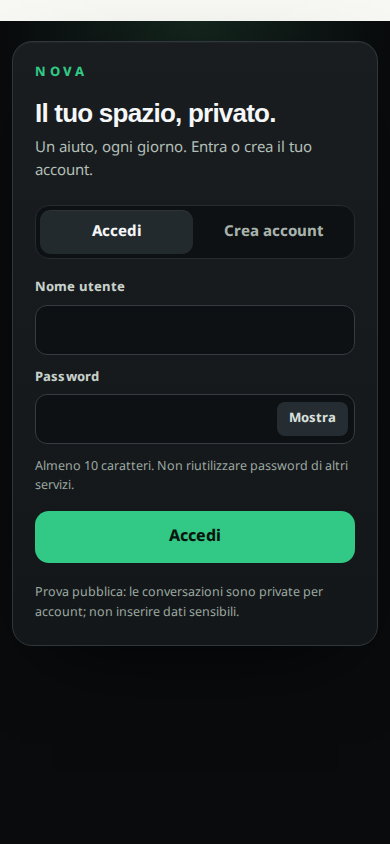
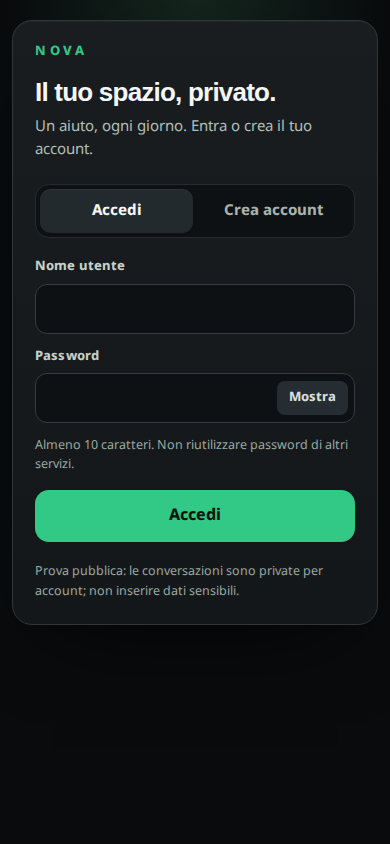
APK download route (data-dir releases), DEPLOYMENT: licenzpol.it/nova section, Android build/runbook

diff --git a/src/web.ts b/src/web.ts
@@ -30,7 +30,7 @@ export function webDataRoutes(app:FastifyInstance,pool:Pool){
   return {conversations,artifacts,runs,limit:100};
  }));
 }
-export interface WebOptions{nativeVoice?:boolean;/** Self-service registration; default open. Env NOVA_PUBLIC_REGISTRATION=off closes it. */registration?:boolean;/** Mount everything under a URL prefix (e.g. '/nova' for licenzpol.it/nova). Default '' = root. Static files are rewritten at serve time so the browser only ever sees prefixed URLs. */basePath?:string;/** Digital Asset Links statement file (JSON) served at /.well-known/assetlinks.json for the Android TWA. Absent/unreadable → 404. */assetLinksFile?:string}
+export interface WebOptions{nativeVoice?:boolean;/** Self-service registration; default open. Env NOVA_PUBLIC_REGISTRATION=off closes it. */registration?:boolean;/** Mount everything under a URL prefix (e.g. '/nova' for licenzpol.it/nova). Default '' = root. Static files are rewritten at serve time so the browser only ever sees prefixed URLs. */basePath?:string;/** Digital Asset Links statement file (JSON) served at /.well-known/assetlinks.json for the Android TWA. Absent/unreadable → 404. */assetLinksFile?:string;/** Directory with release APKs (nova-latest.apk + .sha256). Served at <bp>/download/nova.apk. Absent → 404. */releasesDir?:string}
 export const registrationOpenFromEnv=(env:Record<string,string|undefined>=process.env)=>env.NOVA_PUBLIC_REGISTRATION?.trim().toLowerCase()!=='off';
 export async function buildWeb(core:FastifyInstance,pool:Pool,options:WebOptions={}){
  const web=Fastify({logger:false,bodyLimit:5700000,trustProxy:false});
@@ -63,6 +63,9 @@ export async function buildWeb(core:FastifyInstance,pool:Pool,options:WebOptions
  // Installable PWA / TWA: manifest scoped to the mount path; icons are static PNGs.
  web.get(bp+'/manifest.webmanifest',async(_r,reply)=>reply.type('application/manifest+json; charset=utf-8').send(JSON.stringify({id:bp+'/',name:'NOVA — Il tuo spazio',short_name:'Nova',description:'Assistente onesto per CV, documenti, lavoro e lingua — italiano, বাংলা, Banglish, English.',lang:'it',dir:'ltr',start_url:bp+'/',scope:bp+'/',display:'standalone',orientation:'portrait',background_color:'#121513',theme_color:'#121513',icons:[{src:bp+'/icons/icon-192.png',sizes:'192x192',type:'image/png'},{src:bp+'/icons/icon-512.png',sizes:'512x512',type:'image/png'},{src:bp+'/icons/maskable-512.png',sizes:'512x512',type:'image/png',purpose:'maskable'}]})));
  for(const icon of ['icon-192.png','icon-512.png','maskable-512.png'])web.get(bp+'/icons/'+icon,async(_r,reply)=>reply.type('image/png').header('cache-control','public, max-age=86400').send(await readFile(new URL('../public/icons/'+icon,import.meta.url))));
+ // Android app download: the signed APK lives in the data dir (never in git); served verbatim with its checksum.
+ if(options.releasesDir){web.get(bp+'/download/nova.apk',async(_r,reply)=>{try{const bytes=await readFile(options.releasesDir+'/nova-latest.apk');return reply.type('application/vnd.android.package-archive').header('content-disposition','attachment; filename="nova.apk"').header('cache-control','public, max-age=300').send(bytes)}catch{return reply.code(404).send({error:'not_found'})}});
+  web.get(bp+'/download/nova.apk.sha256',async(_r,reply)=>{try{return reply.type('text/plain').send(await readFile(options.releasesDir+'/nova-latest.apk.sha256','utf8'))}catch{return reply.code(404).send({error:'not_found'})}});}
  // Digital Asset Links live at the ORIGIN root by spec, regardless of the mount path.
  if(options.assetLinksFile)web.get('/.well-known/assetlinks.json',async(_r,reply)=>{try{const text=await readFile(options.assetLinksFile!,'utf8');JSON.parse(text);return reply.type('application/json').header('cache-control','public, max-age=3600').send(text)}catch{return reply.code(404).send({error:'not_found'})}});
  if(options.nativeVoice)web.get(bp+'/native.js',async(_r,reply)=>reply.type('text/javascript; charset=utf-8').send(prefixed('native.js',(await readFile(new URL('../staging/voice-files/public/native.js',import.meta.url))).toString())));

diff --git a/tests/pwa-manifest.test.ts b/tests/pwa-manifest.test.ts
@@ -4,7 +4,7 @@ import {buildApp,migrate} from '../src/app.ts';import {buildWeb} from '../src/we
 // (Android reads https://host/.well-known/assetlinks.json, never under /nova). Fingerprints come from a file in the data dir.
 test('manifest + icons served under basePath with correct scope/start_url; assetlinks at origin root from data-dir file; absent file → 404 (never an empty/fabricated statement)',async()=>{
  const db=await database();await migrate(db.pool);const core=buildApp(db.pool);const dir=await mkdtemp(join(tmpdir(),'nova-al-'));
- const web=await buildWeb(core,db.pool,{basePath:'/nova',assetLinksFile:join(dir,'assetlinks.json')});const base=await web.listen({port:0,host:'127.0.0.1'});
+ const web=await buildWeb(core,db.pool,{basePath:'/nova',assetLinksFile:join(dir,'assetlinks.json'),releasesDir:dir});const base=await web.listen({port:0,host:'127.0.0.1'});
  try{
   const m=await fetch(base+'/nova/manifest.webmanifest');assert.equal(m.status,200);assert.match(m.headers.get('content-type')!,/application\/manifest\+json/);const j=await m.json();
   assert.equal(j.start_url,'/nova/');assert.equal(j.scope,'/nova/');assert.equal(j.id,'/nova/');assert.equal(j.display,'standalone');assert.equal(j.lang,'it');assert.ok(j.icons.some((i:any)=>i.purpose==='maskable'));
@@ -13,6 +13,10 @@ test('manifest + icons served under basePath with correct scope/start_url; asset
   assert.equal((await fetch(base+'/.well-known/assetlinks.json')).status,404,'no fingerprint file → 404');
   await writeFile(join(dir,'assetlinks.json'),JSON.stringify([{relation:['delegate_permission/common.handle_all_urls'],target:{namespace:'android_app',package_name:'it.licenzpol.nova',sha256_cert_fingerprints:['AA:BB']}}]));
   const al=await fetch(base+'/.well-known/assetlinks.json');assert.equal(al.status,200);assert.match(al.headers.get('content-type')!,/application\/json/);assert.equal((await al.json())[0].target.package_name,'it.licenzpol.nova');
+  assert.equal((await fetch(base+'/nova/download/nova.apk')).status,404,'no release yet → 404');
+  await writeFile(join(dir,'nova-latest.apk'),Buffer.from('PK\u0003\u0004fake'));await writeFile(join(dir,'nova-latest.apk.sha256'),'abc  nova-latest.apk\n');
+  const apk=await fetch(base+'/nova/download/nova.apk');assert.equal(apk.status,200);assert.match(apk.headers.get('content-type')!,/android\.package-archive/);assert.match(apk.headers.get('content-disposition')!,/nova\.apk/);assert.equal((await apk.arrayBuffer()).byteLength,8);
+  assert.equal((await (await fetch(base+'/nova/download/nova.apk.sha256')).text()).trim(),'abc  nova-latest.apk');
   // root-mounted default keeps serving the manifest at /manifest.webmanifest with scope '/'
  }finally{await web.close();await core.close();await db.close()}
  const web2=await buildWeb(core,db.pool,{});const base2=await web2.listen({port:0,host:'127.0.0.1'});try{const j=await (await fetch(base2+'/manifest.webmanifest')).json();assert.equal(j.scope,'/');assert.equal(j.start_url,'/')}finally{await web2.close()}

diff --git a/scripts/trial.ts b/scripts/trial.ts
@@ -28,7 +28,7 @@ const registry=new ProviderRegistry(pool,providerKey);
 const accountLimits=accountLimitsFromEnv();
 const core=buildApp(pool,{fileRoot:root+'/files',agent:{endpoint:'https://sadesheikh-2809-resource.openai.azure.com/openai/v1/chat/completions',model:'gpt-5.4-mini',provider:new ManagedIdentityProvider(),voice:new AzureSpeechProvider(),registry,search:searchWeb,timeoutMs:30000,...accountLimits}});registry.routes(core);webDataRoutes(core,pool);capabilityRoutes(core,pool);await core.ready();
 const basePath=(process.env.NOVA_BASE_PATH??'').trim();const port=Number(process.env.NOVA_PORT??4187);if(!Number.isInteger(port)||port<1024||port>65535)throw Error('NOVA_PORT invalid');
-const web=await buildWeb(core,pool,{nativeVoice:true,registration:registrationOpenFromEnv(),basePath,assetLinksFile:root+'/assetlinks.json'});await web.listen({port,host:'127.0.0.1'});console.log(`NOVA trial ready on loopback:${port}${basePath}  (registration ${registrationOpenFromEnv()?'open':'closed'}, ${accountLimits.dailyRunsPerAccount} runs/day, ${accountLimits.unlimitedOwners.length} unlimited owners)`);
+const web=await buildWeb(core,pool,{nativeVoice:true,registration:registrationOpenFromEnv(),basePath,assetLinksFile:root+'/assetlinks.json',releasesDir:root+'/releases'});await web.listen({port,host:'127.0.0.1'});console.log(`NOVA trial ready on loopback:${port}${basePath}  (registration ${registrationOpenFromEnv()?'open':'closed'}, ${accountLimits.dailyRunsPerAccount} runs/day, ${accountLimits.unlimitedOwners.length} unlimited owners)`);
 // Temporary conversations expire after 24h; blobs go through file_cleanup. Sweep hourly, never crash the server on a sweep error.
 const sweeper=setInterval(()=>{sweepEphemeral(pool).then(n=>{if(n)console.log(`ephemeral sweep removed ${n}`)}).catch(e=>console.error('ephemeral sweep failed',e?.message))},3600000);
 let closing=false;async function stop(){if(closing)return;closing=true;clearInterval(sweeper);await web.close();await core.close();await pool.end();await embedded.stop()}

diff --git a/docs/DEPLOYMENT.md b/docs/DEPLOYMENT.md
@@ -73,3 +73,29 @@ Production uses a Cloudflare **quick tunnel** (no account, no domain) wrapped by
 
 ## 7. Evidence & verification culture
 Every feature slice has `evidence/<slice>/{REPORT.md,test-full.log,typecheck.log,SHA256SUMS,…}` with what the user can do now, live proofs on the public origin, and an explicit "not implemented / limits" list. Read those before changing a subsystem. Skills/workflow notes used by the maintainers' agent live outside the repo.
+
+## 8. Production on licenzpol.it/nova (since 2026-10-01)
+The LicenzPol VM (`Novapeoject`) hosts the new Nova **alongside** LicenzPol (8002) and Nexus (3960). Legacy Nova (`nova-voice`, 3950) is stopped and disabled; its full server+data snapshot is in `/opt/nova-legacy-backups/<ts>/` with the pre-change Caddyfile and unit (rollback: restore Caddy block to `handle_path /nova/* → 3950`, `systemctl enable --now nova-voice`).
+| Item | Value |
+|---|---|
+| Code | `/opt/nova-community/app` (git clone of this repo; update = `git pull`) |
+| Data (`NOVA_TRIAL_DIR`) | `/opt/nova-community/data` — db, files, secrets, `trial.env`, `assetlinks.json`, `keystore/`, `releases/` |
+| Unit | `/etc/systemd/system/nova-community.service` (system unit, `User=azureuser`, loopback 4187) |
+| Mount | `NOVA_BASE_PATH=/nova` → Caddy `handle /nova/* → 127.0.0.1:4187` (prefix preserved) + `handle /.well-known/assetlinks.json → 4187` |
+| Toolchains | `.venv-docs` (uv venv, python3-venv is not installed there), Chromium + system libs (installed via apt), Android JDK 17 + SDK 35 + Gradle 8.11.1 in `/opt/android-build` |
+| Model | Azure Managed Identity of that VM (verified: Foundry 200) |
+
+**Postgres pitfall (hit on first start):** `logind RemoveIPC=yes` destroys POSIX shared memory when the SSH session that started things ends → `could not open shared memory segment`. The data dir's `postgresql.conf` is set to `dynamic_shared_memory_type = mmap`; keep it on any new host where the service does not run under a lingering user session.
+
+Release there: `cd /opt/nova-community/app && git pull && sudo systemctl stop nova-community && tar -czf /opt/nova-community/backups/$(date -u +%Y%m%dT%H%M%SZ)/data.tgz -C /opt/nova-community data && sudo systemctl start nova-community`, then the smokes with `TRIAL_URL=https://licenzpol.it/nova`.
+
+## 9. Android app (TWA) — `android/`
+Package `it.licenzpol.nova`, a Trusted Web Activity over `https://licenzpol.it/nova/` (see `android/README.md`). Signing keystore + `signing.env` in `/opt/nova-community/data/keystore/` (mode 600; **back it up with the data dir — losing it means users cannot update**). Build on the VM:
+```bash
+export JAVA_HOME=/opt/android-build/jdk ANDROID_HOME=/opt/android-build/sdk PATH=/opt/android-build/jdk/bin:/opt/android-build/gradle-8.11.1/bin:$PATH
+set -a; . /opt/nova-community/data/keystore/signing.env; set +a
+cd /opt/nova-community/app/android && gradle --no-daemon :app:assembleRelease
+BT=/opt/android-build/sdk/build-tools/35.0.0; $BT/apksigner verify --print-certs app/build/outputs/apk/release/app-release.apk   # fingerprint must equal the one in data/assetlinks.json
+cp app/build/outputs/apk/release/app-release.apk /opt/nova-community/data/releases/nova-<version>-<code>.apk && ln -sfn nova-<version>-<code>.apk /opt/nova-community/data/releases/nova-latest.apk && sha256sum … > …/nova-latest.apk.sha256
+```
+Download URL: `https://licenzpol.it/nova/download/nova.apk` (+ `.sha256`). Bump `versionCode`/`versionName` in `android/app/build.gradle` for every release. Not on Google Play (sideload: users must allow "unknown sources"); Play publication needs a developer account and the same keystore (or Play App Signing enrolment).
